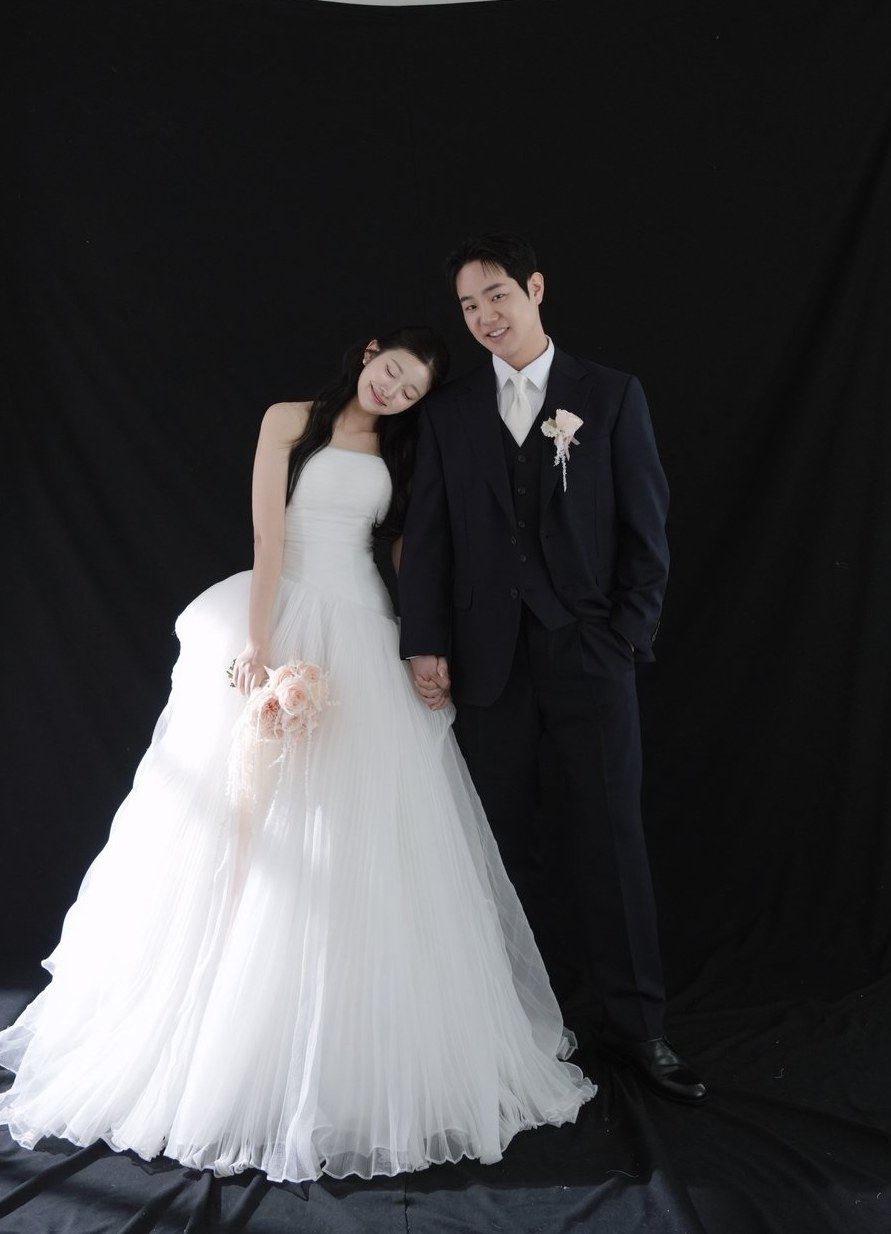
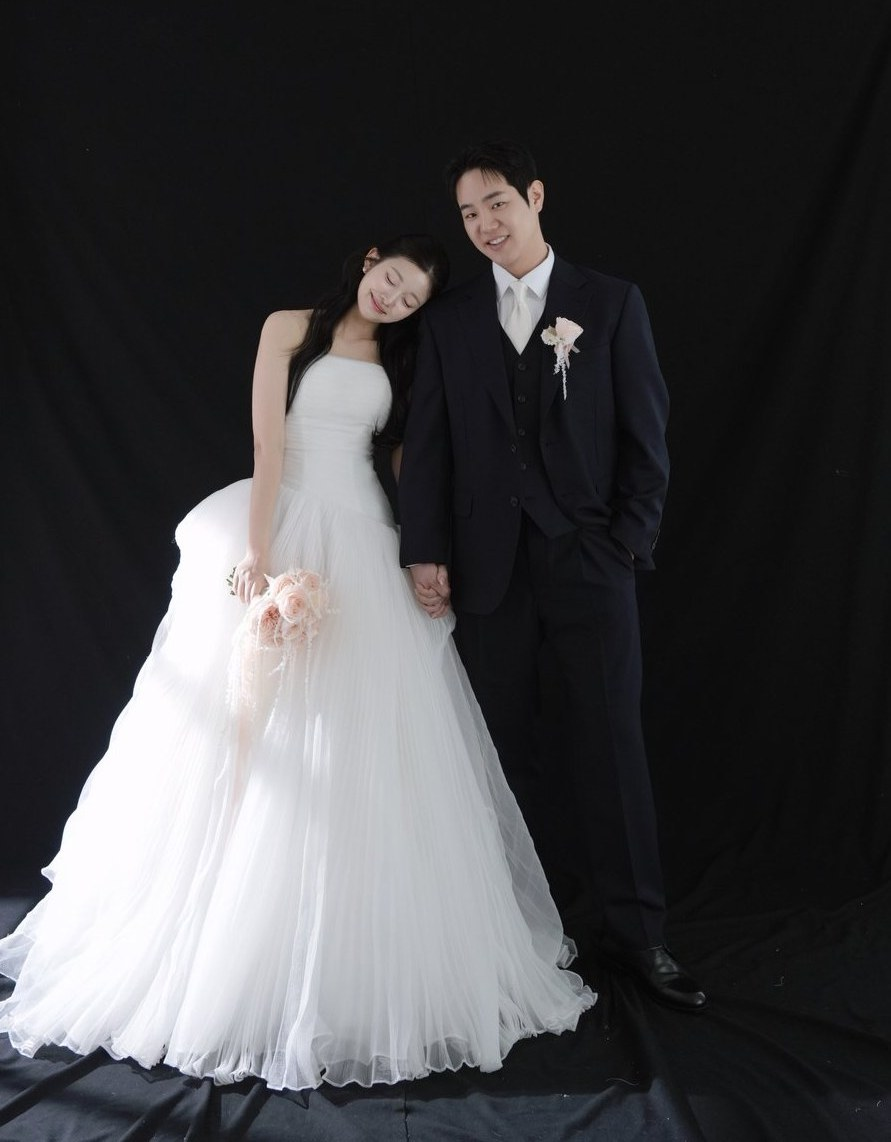
feat: 예식안내 라벨형 개편(가독성) + 사진 15/17 추가 크롭
- 예식안내: 시간·식사안내 제목 제거, 리드 문장 + 라벨형 3줄(예식형태/식사시간/안내사항)
- gallery_15: 상단 잔여 흰색 추가 크롭
- gallery_17: 상단 30% 크롭으로 인물 확대

diff --git a/index.html b/index.html
@@ -14,7 +14,7 @@
 
   <link rel="preconnect" href="https://fonts.googleapis.com" />
   <link rel="preconnect" href="https://fonts.gstatic.com" crossorigin />
-  <link href="https://fonts.googleapis.com/css2?family=Noto+Sans+KR:wght@300;400;500;600;700&family=Nanum+Myeongjo:wght@400;700;800&family=Noto+Serif+KR:wght@500;700&family=Great+Vibes&display=swap" rel="stylesheet" />
+  <link href="https://fonts.googleapis.com/css2?family=Noto+Sans+KR:wght@300;400;500;600;700&family=Nanum+Myeongjo:wght@400;700;800&family=Noto+Serif+KR:wght@500;600;700&family=Great+Vibes&display=swap" rel="stylesheet" />
 
   <style>
     *, *::before, *::after { box-sizing: border-box; margin: 0; padding: 0; }
@@ -380,48 +380,42 @@
     /* ────────── ⑤ 예식 안내 ────────── */
     .event { background: white; text-align: center; }
 
-    .event-time {
-      font-family: var(--serif);
-      font-size: 1.05rem;
-      color: var(--deep);
-      letter-spacing: .05em;
-    }
-
-    .event-divider {
-      width: 60px;
-      height: 1px;
-      background: var(--gold);
-      margin: 28px auto;
-    }
-
-    /* 식사 안내 (동시예식) — 예식안내와 같은 톤으로 통일 */
-    .meal-title {
-      font-family: var(--serif);
-      font-size: 1.05rem;
-      color: var(--deep);
-      font-weight: 700;
-      margin-bottom: 12px;
-    }
-
-    /* 나눔명조엔 중간 굵기가 없어 명조 계열 Noto Serif KR 500 사용 (살짝 굵게) */
+    /* 식사 안내 — 명조 계열 Noto Serif KR (나눔명조엔 중간 굵기가 없음) */
     .meal-lead {
       font-family: 'Noto Serif KR', var(--serif);
-      font-weight: 500;
-      font-size: .92rem;
-      color: var(--text);
-      margin-bottom: 14px;
+      font-weight: 600;
+      font-size: .95rem;
+      color: var(--deep);
+      margin-bottom: 22px;
     }
 
-    .meal-text {
+    .meal-rows {
+      text-align: left;
+      max-width: 360px;
+      margin: 0 auto;
+      display: grid;
+      gap: 10px;
+    }
+
+    .meal-rows p {
       font-family: 'Noto Serif KR', var(--serif);
       font-weight: 500;
       font-size: .88rem;
       color: var(--muted);
-      line-height: 1.95;
+      line-height: 1.85;
+      padding-left: 16px;
+      position: relative;
     }
 
-    .meal-text strong {
-      color: var(--muted);
+    .meal-rows p::before {
+      content: '•';
+      position: absolute;
+      left: 2px;
+      color: var(--gold);
+    }
+
+    .meal-rows strong {
+      color: var(--deep);
       font-weight: 700;
     }
 
@@ -1200,21 +1194,15 @@
       <p class="label">WEDDING DAY</p>
       <h2 class="title">예식 안내</h2>
 
-      <p class="event-time">오후 2시 30분</p>
-
-      <div class="event-divider"></div>
-
       <!-- 식사 안내 (장소·주소는 오시는 길에서 안내) -->
-      <div class="meal-info">
-        <p class="meal-title">🍽 식사 안내</p>
-        <p class="meal-lead">동시예식 · 1부 본식 종료 후 바로 식사가 시작됩니다</p>
-        <p class="meal-text">
-          별도의 식당 이동 없이 예식 홀 내에서 식사가 진행됩니다.<br/>
-          개인 좌석은 그대로 유지해 주시고, 1부 종료 후<br/>
-          홀 뒤편에 마련된 뷔페를 편안하게 이용해 주세요.<br/>
-          <strong>메인 스테이크가 함께 제공됩니다.</strong><br/>
-          맛있는 식사와 함께 2부 예식도 함께해 주시면 감사하겠습니다.
-        </p>
+      <p class="meal-lead">동시예식 · 1부 본식 종료 후 바로 식사가 시작됩니다</p>
+
+      <div class="meal-rows">
+        <p><strong>예식 형태 :</strong> 동시 예식 (좌석 식사)</p>
+        <p><strong>식사 시간 :</strong> 1부 본식 종료 후 바로 시작됩니다.</p>
+        <p><strong>안내 사항 :</strong> 별도의 이동 없이 좌석에서 식사하실 수 있으며,
+          홀 뒤편 뷔페와 메인 스테이크가 함께 제공됩니다.
+          맛있는 식사와 함께 2부 예식도 즐겨주세요.</p>
       </div>
 
       <!-- 캘린더 -->
